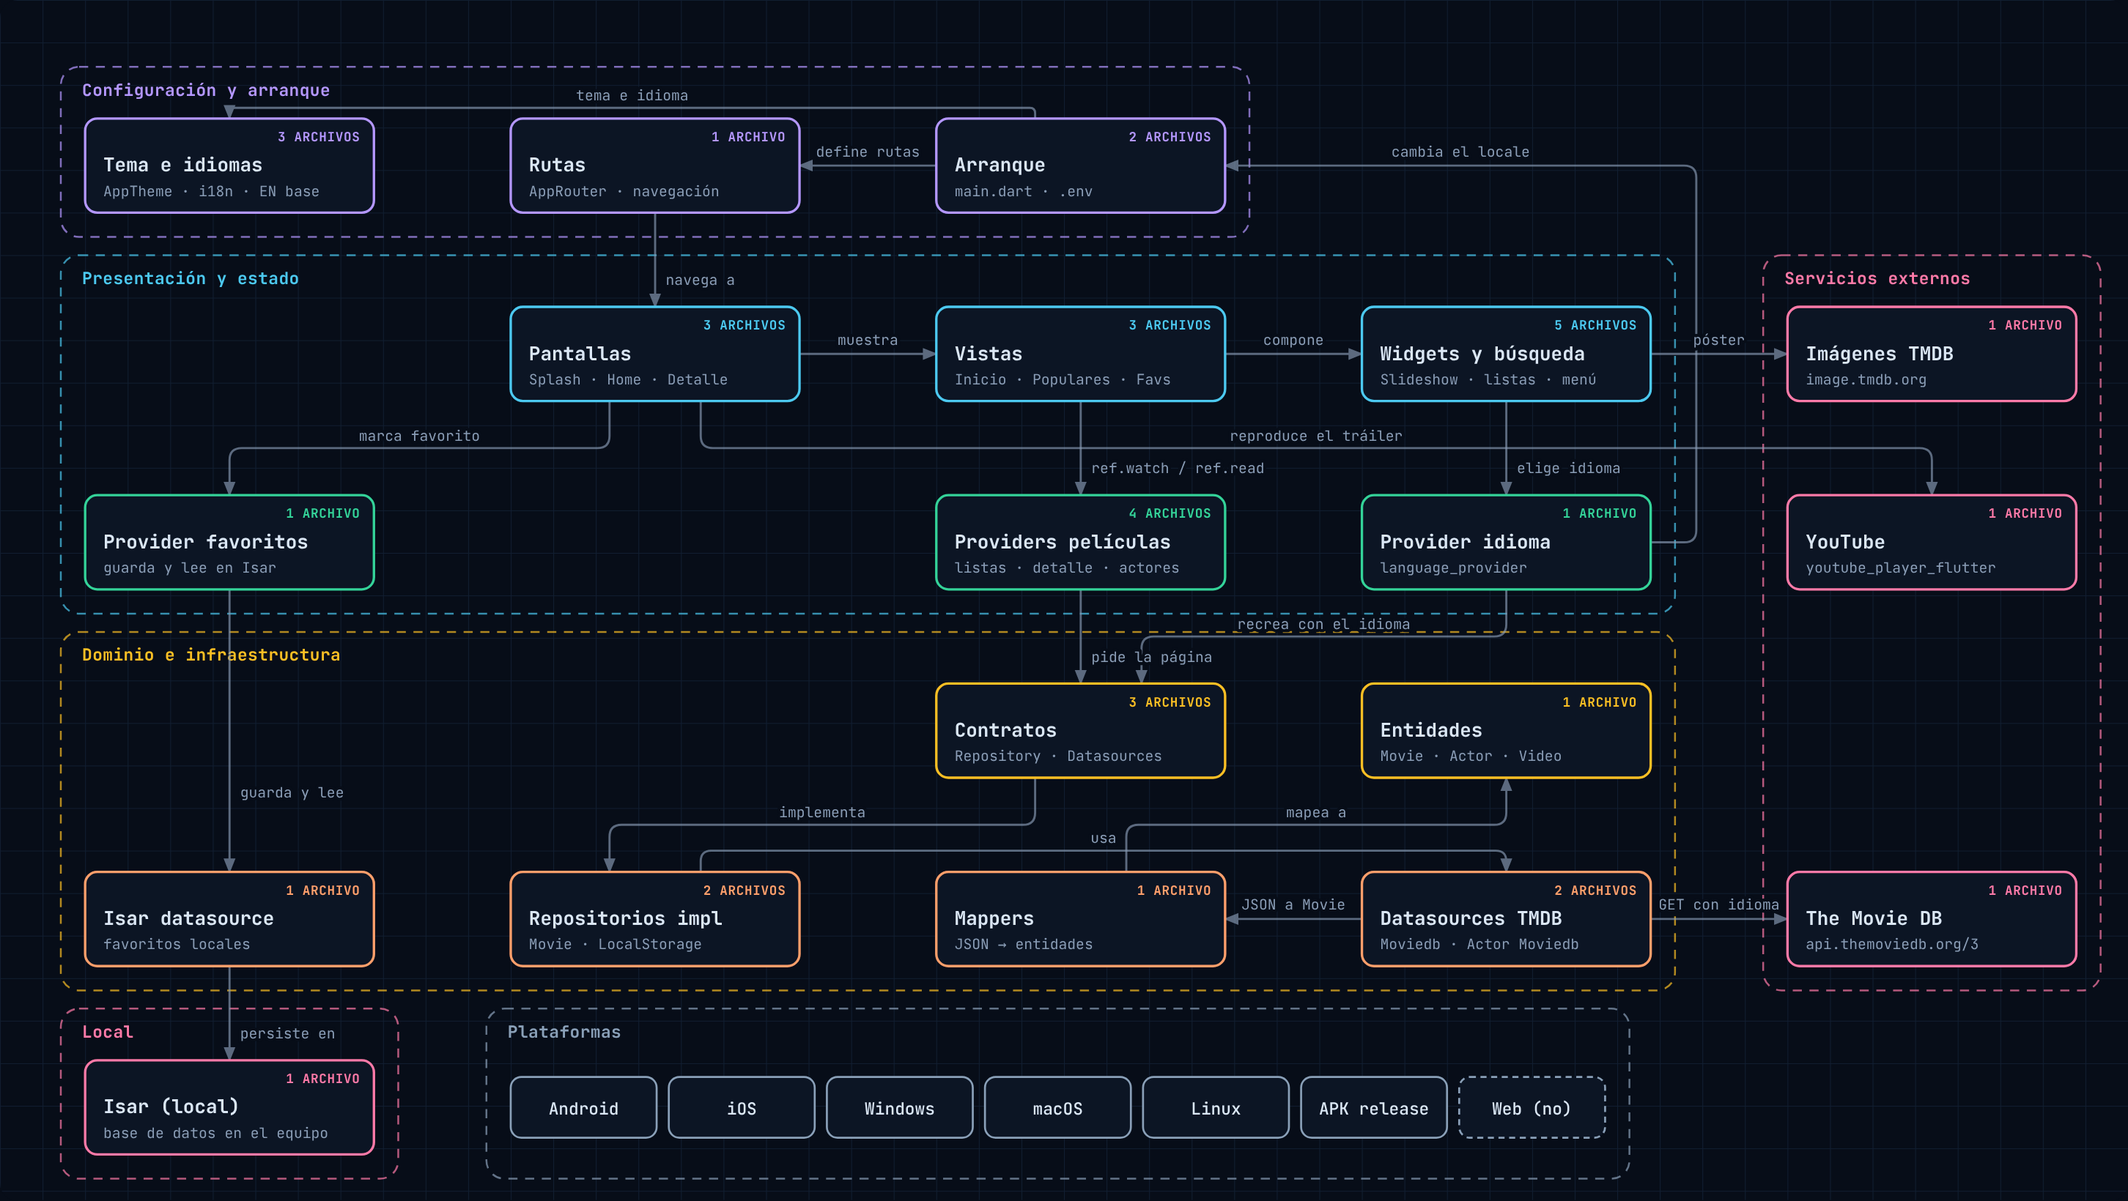
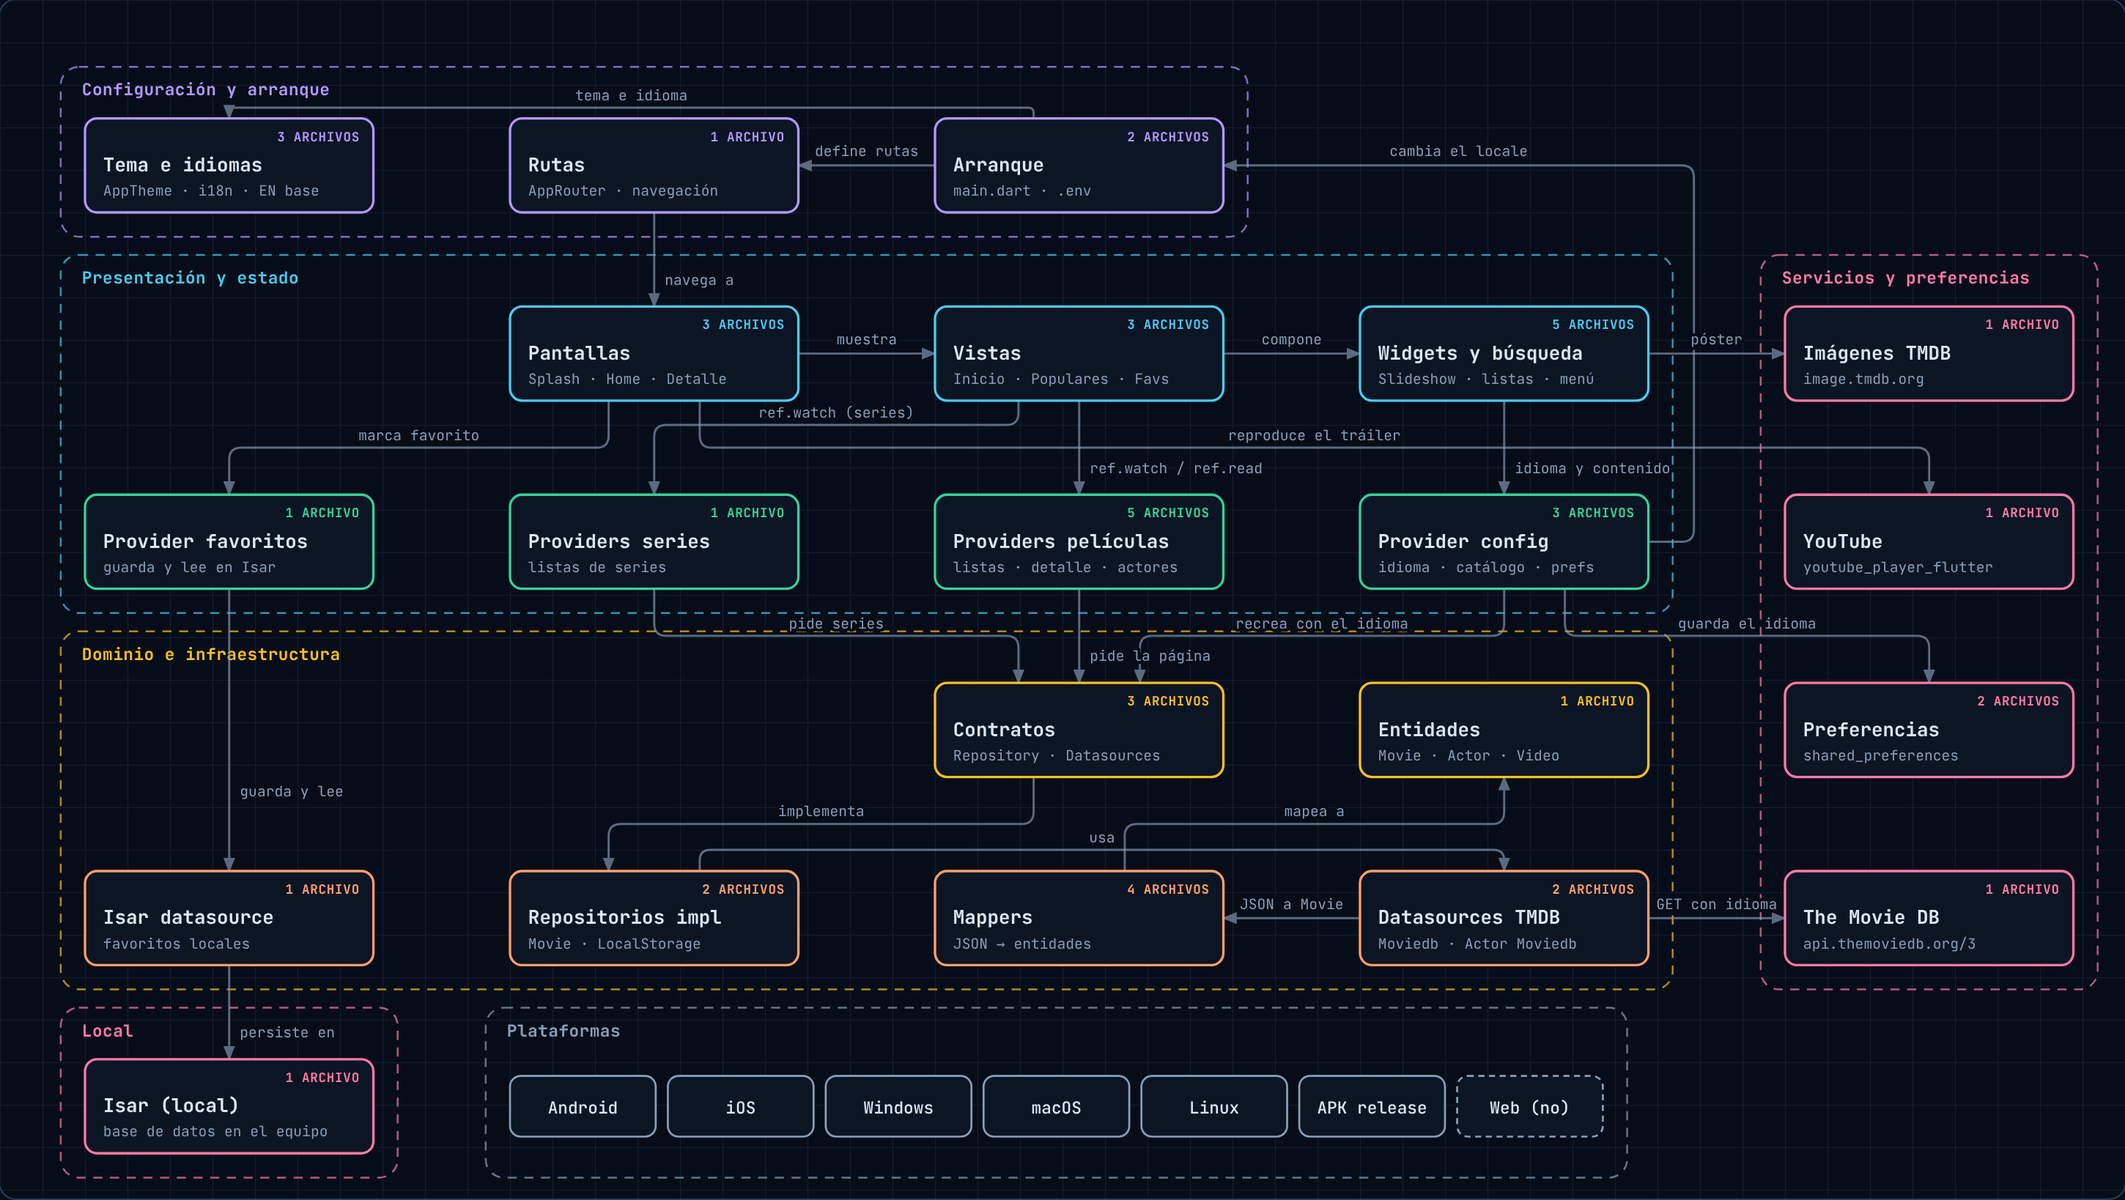
Practica06
Actualizando Diagrama de Arquitectura

diff --git a/Practica06/Arquitectura/Arquitectura_de_Cinemapedia.html b/Practica06/Arquitectura/Arquitectura_de_Cinemapedia.html
@@ -122,7 +122,7 @@ body.present .stage.fit #dg{max-height:calc(100vh - 150px)}
 
 <div class="wrap">
   <div class="head">
-    <h1>Arquitectura de Cinemapedia <small>Flutter · providers · Isar · The Movie DB</small></h1>
+    <h1>Arquitectura de Cinemapedia <small>Flutter · providers · Isar · The Movie DB · películas y series</small></h1>
     <div class="tools">
       <button class="btn" id="theme">Tema</button>
       <button class="btn" id="fit" aria-pressed="true">Ajustar</button>
@@ -146,9 +146,9 @@ body.present .stage.fit #dg{max-height:calc(100vh - 150px)}
   <div class="dock" id="dock" aria-live="polite"></div>
 
   <div class="notes">
-    <div style="--d:#22d3ee"><h3><i></i>Flujo de datos</h3><p>Los providers piden las películas al repositorio, que las trae de The Movie DB y las convierte con mappers a entidades.</p></div>
-    <div style="--d:#34d399"><h3><i></i>Idiomas</h3><p>Al cambiar de idioma se recrean los repositorios y se recargan las películas. Si falta la traducción, se usa el inglés como respaldo.</p></div>
-    <div style="--d:#fbbf24"><h3><i></i>Sin backend propio</h3><p>La app consulta The Movie DB como servicio externo y guarda los favoritos solo en el dispositivo con Isar. La web no está soportada porque Isar no corre en navegador.</p></div>
+    <div style="--d:#22d3ee"><h3><i></i>Flujo de datos</h3><p>Los providers piden las películas y series al repositorio, que las trae de The Movie DB y las convierte con mappers a entidades.</p></div>
+    <div style="--d:#34d399"><h3><i></i>Idiomas</h3><p>El idioma se elige en Configuración y se recuerda al reabrir la app. Al cambiarlo se recrean los repositorios y se recargan los datos; si falta la traducción, se usa el inglés como respaldo.</p></div>
+    <div style="--d:#fbbf24"><h3><i></i>Sin backend propio</h3><p>La app consulta The Movie DB como servicio externo y guarda en el dispositivo los favoritos (Isar) y el idioma elegido (shared_preferences). La web no está soportada porque Isar no corre en navegador.</p></div>
   </div>
 </div>
 
@@ -160,29 +160,31 @@ const LAYERS=[
  {id:'domain',short:'Dominio',c:'--c-domain'},{id:'infra',short:'Infraestructura',c:'--c-infra'},{id:'ext',short:'Externo y local',c:'--c-ext'},{id:'plat',short:'Plataformas',c:'--c-plat'}];
 const LP='lib/presentation/', LI='lib/infrastructure/', LD='lib/domain/';
 const N=[
- {id:'arranque',l:'config',c:2,r:0,t:'Arranque',s:'main.dart · .env',d:'Inicia la app, monta MaterialApp.router con el tema y el idioma activos, y lee la API key del archivo .env.',f:[['main.dart','lib/main.dart','Punto de entrada.'],['environment.dart','lib/config/constants/environment.dart','Constantes de entorno y API key del .env.']]},
+ {id:'arranque',l:'config',c:2,r:0,t:'Arranque',s:'main.dart · .env',d:'Inicia la app, lee la API key del archivo .env y las preferencias guardadas (el último idioma elegido), y monta MaterialApp.router con el tema y el idioma activos.',f:[['main.dart','lib/main.dart','Punto de entrada.'],['environment.dart','lib/config/constants/environment.dart','Constantes de entorno y API key del .env.']]},
  {id:'rutas',l:'config',c:1,r:0,t:'Rutas',s:'AppRouter · navegación',d:'Define las rutas y la navegación entre pantallas.',f:[['app_router.dart','lib/config/router/app_router.dart','Rutas de la app.']]},
  {id:'tema',l:'config',c:0,r:0,t:'Tema e idiomas',s:'AppTheme · i18n · EN base',d:'Tema visual, idiomas disponibles y textos traducidos. Si falta una traducción se usa el inglés.',f:[['app_theme.dart','lib/config/theme/app_theme.dart','Tema visual.'],['app_language.dart','lib/config/i18n/app_language.dart','Idiomas disponibles.'],['app_strings.dart','lib/config/i18n/app_strings.dart','Textos traducidos.']]},
 
- {id:'pantallas',l:'ui',c:1,r:1,t:'Pantallas',s:'Splash · Home · Detalle',d:'Pantallas de la app. El detalle de película reproduce el tráiler y permite marcar favoritos.',f:[['splash_screen.dart',LP+'screens/splash/splash_screen.dart','Pantalla de arranque.'],['home_screen.dart',LP+'screens/movies/home_screen.dart','Pantalla principal. Muestra las vistas y el menú lateral.'],['movie_screen.dart',LP+'screens/movies/movie_screen.dart','Detalle de una película.']]},
- {id:'vistas',l:'ui',c:2,r:1,t:'Vistas',s:'Inicio · Populares · Favs',d:'Vistas que muestra la pantalla principal. Leen los providers con ref.watch y ref.read.',f:[['home_view.dart',LP+'views/movies/home_view.dart','Inicio: slideshow y listas horizontales.'],['popular_view.dart',LP+'views/movies/popular_view.dart','Populares en cuadrícula.'],['favorites_view.dart',LP+'views/movies/favorites_view.dart','Películas favoritas.']]},
- {id:'widgets',l:'ui',c:3,r:1,t:'Widgets y búsqueda',s:'Slideshow · listas · menú',d:'Componentes reutilizables. El menú lateral cambia el idioma y los carruseles cargan los pósters de TMDB.',f:[['movies_slideshow.dart',LP+'widgets/movies/movies_slideshow.dart','Carrusel principal.'],['movie_horizontal_listview.dart',LP+'widgets/movies/movie_horizontal_listview.dart','Lista horizontal de películas.'],['movie_masonry.dart',LP+'widgets/movies/movie_masonry.dart','Cuadrícula masonry.'],['side_menu.dart',LP+'widgets/shared/side_menu.dart','Menú lateral con selector de idioma.'],['search_movie_delegate.dart',LP+'delegates/search_movie_delegate.dart','Delegado de búsqueda.']]},
+ {id:'pantallas',l:'ui',c:1,r:1,t:'Pantallas',s:'Splash · Home · Detalle',d:'Pantallas de la app. El detalle de una película o serie muestra la clasificación de edad del país elegido, reproduce el tráiler y permite marcar favoritos.',f:[['splash_screen.dart',LP+'screens/splash/splash_screen.dart','Pantalla de arranque.'],['home_screen.dart',LP+'screens/movies/home_screen.dart','Pantalla principal. Muestra las vistas y el menú lateral.'],['movie_screen.dart',LP+'screens/movies/movie_screen.dart','Detalle de una película o serie, con su clasificación de edad.']]},
+ {id:'vistas',l:'ui',c:2,r:1,t:'Vistas',s:'Inicio · Populares · Favs',d:'Vistas que muestra la pantalla principal. Según el catálogo elegido (películas o series) leen unos providers u otros con ref.watch y ref.read.',f:[['home_view.dart',LP+'views/movies/home_view.dart','Inicio: slideshow y listas horizontales de películas o series.'],['popular_view.dart',LP+'views/movies/popular_view.dart','Populares en cuadrícula.'],['favorites_view.dart',LP+'views/movies/favorites_view.dart','Películas favoritas.']]},
+ {id:'widgets',l:'ui',c:3,r:1,t:'Widgets y búsqueda',s:'Slideshow · listas · menú',d:'Componentes reutilizables. El menú lateral tiene el apartado de Configuración (contenido e idioma) y los carruseles cargan los pósters de TMDB.',f:[['movies_slideshow.dart',LP+'widgets/movies/movies_slideshow.dart','Carrusel principal.'],['movie_horizontal_listview.dart',LP+'widgets/movies/movie_horizontal_listview.dart','Lista horizontal de películas.'],['movie_masonry.dart',LP+'widgets/movies/movie_masonry.dart','Cuadrícula masonry.'],['side_menu.dart',LP+'widgets/shared/side_menu.dart','Menú lateral con Configuración: películas o series e idioma.'],['search_movie_delegate.dart',LP+'delegates/search_movie_delegate.dart','Delegado de búsqueda.']]},
 
  {id:'pFav',l:'state',c:0,r:2,t:'Provider favoritos',s:'guarda y lee en Isar',d:'Estado de las películas favoritas. Lee y escribe a través de Isar.',f:[['favorite_movies_provider.dart',LP+'providers/storage/favorite_movies_provider.dart','Favoritos del usuario.']]},
- {id:'pMovies',l:'state',c:2,r:2,t:'Providers películas',s:'listas · detalle · actores',d:'Estado de las listas, el detalle, los actores y la búsqueda. Piden cada página al repositorio.',f:[['movies_providers.dart',LP+'providers/movies/movies_providers.dart','Listas de películas por página.'],['movie_info_provider.dart',LP+'providers/movies/movie_info_provider.dart','Detalle de una película.'],['actors_by_movie_provider.dart',LP+'providers/actors/actors_by_movie_provider.dart','Actores de una película.'],['search_movies_provider.dart',LP+'providers/search/search_movies_provider.dart','Estado de la búsqueda.']]},
- {id:'pLang',l:'state',c:3,r:2,t:'Provider idioma',s:'language_provider',d:'Idioma activo. Al cambiar, recrea los repositorios y actualiza el locale de la app.',f:[['language_provider.dart',LP+'providers/language/language_provider.dart','Idioma activo.']]},
+ {id:'pMovies',l:'state',c:2,r:2,t:'Providers películas',s:'listas · detalle · actores',d:'Estado de las listas, el detalle, los actores, la búsqueda y la clasificación de edad. Piden cada página al repositorio.',f:[['movies_providers.dart',LP+'providers/movies/movies_providers.dart','Listas de películas por página.'],['movie_info_provider.dart',LP+'providers/movies/movie_info_provider.dart','Detalle de una película.'],['actors_by_movie_provider.dart',LP+'providers/actors/actors_by_movie_provider.dart','Actores de una película.'],['search_movies_provider.dart',LP+'providers/search/search_movies_provider.dart','Estado de la búsqueda (películas o series).'],['movie_certification_provider.dart',LP+'providers/movies/movie_certification_provider.dart','Clasificación de edad según el país del idioma.']]},
+ {id:'pLang',l:'state',c:3,r:2,t:'Provider config',s:'idioma · catálogo · prefs',d:'Configuración de la app. El idioma activo se guarda en el dispositivo; al cambiarlo se recrean los repositorios y se actualiza el locale. También guarda si se ven películas o series.',f:[['language_provider.dart',LP+'providers/language/language_provider.dart','Idioma activo (se recuerda al reabrir la app).'],['catalog_type_provider.dart',LP+'providers/settings/catalog_type_provider.dart','Catálogo activo: películas o series.'],['shared_preferences_provider.dart',LP+'providers/settings/shared_preferences_provider.dart','Preferencias guardadas en el dispositivo.']]},
+ {id:'pSeries',l:'state',c:1,r:2,t:'Providers series',s:'listas de series',d:'Estado de las listas de series (en emisión, se emiten hoy, populares y mejor calificadas) con scroll infinito. Piden cada página al repositorio.',f:[['series_providers.dart',LP+'providers/series/series_providers.dart','Listas de series y carrusel.']]},
 
- {id:'contratos',l:'domain',c:2,r:3,t:'Contratos',s:'Repository · Datasources',d:'Interfaces abstractas que usan los providers. Aíslan la app de la API concreta.',f:[['movies_repository.dart',LD+'repositories/movies_repository.dart','Contrato del repositorio.'],['movies_datasource.dart',LD+'datasources/movies_datasource.dart','Contrato de la fuente de datos.'],['local_storage_datasource.dart',LD+'datasources/local_storage_datasource.dart','Contrato del almacenamiento local.']]},
- {id:'entidades',l:'domain',c:3,r:3,t:'Entidades',s:'Movie · Actor · Video',d:'Clases del dominio. No dependen de la API.',f:[['entities/',LD+'entities/','Movie, Actor y Video.']]},
+ {id:'contratos',l:'domain',c:2,r:3,t:'Contratos',s:'Repository · Datasources',d:'Interfaces abstractas que usan los providers (películas, series y clasificación de edad). Aíslan la app de la API concreta.',f:[['movies_repository.dart',LD+'repositories/movies_repository.dart','Contrato del repositorio.'],['movies_datasource.dart',LD+'datasources/movies_datasource.dart','Contrato de la fuente de datos.'],['local_storage_datasource.dart',LD+'datasources/local_storage_datasource.dart','Contrato del almacenamiento local.']]},
+ {id:'entidades',l:'domain',c:3,r:3,t:'Entidades',s:'Movie · Actor · Video',d:'Clases del dominio. No dependen de la API. Las series se guardan como Movie con el id en negativo para no chocar con una película.',f:[['entities/',LD+'entities/','Movie, Actor y Video.']]},
 
  {id:'isarDs',l:'infra',c:0,r:4,t:'Isar datasource',s:'favoritos locales',d:'Lee y escribe los favoritos en la base de datos Isar.',f:[['isar_datasource.dart',LI+'datasources/isar_datasource.dart','Acceso a Isar.']]},
  {id:'repoImpl',l:'infra',c:1,r:4,t:'Repositorios impl',s:'Movie · LocalStorage',d:'Implementan los contratos del dominio y delegan en los datasources.',f:[['movie_repository_impl.dart',LI+'repositories/movie_repository_impl.dart','Implementa MoviesRepository.'],['local_storage_repository_impl.dart',LI+'repositories/local_storage_repository_impl.dart','Implementa el repositorio local.']]},
- {id:'mappers',l:'infra',c:2,r:4,t:'Mappers',s:'JSON → entidades',d:'Convierten el JSON de TMDB en entidades del dominio.',f:[['mappers/',LI+'mappers/','Conversión de JSON a Movie, Actor y Video.']]},
- {id:'datasources',l:'infra',c:3,r:4,t:'Datasources TMDB',s:'Moviedb · Actor Moviedb',d:'Hacen GET a The Movie DB con el idioma elegido, usando la API key de environment.dart.',f:[['moviedb_datasource.dart',LI+'datasources/moviedb_datasource.dart','Películas.'],['actor_moviedb_datasource.dart',LI+'datasources/actor_moviedb_datasource.dart','Actores.']]},
+ {id:'mappers',l:'infra',c:2,r:4,t:'Mappers',s:'JSON → entidades',d:'Convierten el JSON de TMDB (películas y series) en entidades del dominio.',f:[['movie_mapper.dart',LI+'mappers/movie_mapper.dart','JSON de película a Movie.'],['tv_mapper.dart',LI+'mappers/tv_mapper.dart','JSON de serie a Movie (id negativo).'],['actor_mapper.dart',LI+'mappers/actor_mapper.dart','JSON a Actor.'],['video_mapper.dart',LI+'mappers/video_mapper.dart','JSON a Video.']]},
+ {id:'datasources',l:'infra',c:3,r:4,t:'Datasources TMDB',s:'Moviedb · Actor Moviedb',d:'Hacen GET a The Movie DB con el idioma elegido, usando la API key de environment.dart. Piden películas (/movie), series (/tv) y las clasificaciones por país.',f:[['moviedb_datasource.dart',LI+'datasources/moviedb_datasource.dart','Películas, series y clasificación de edad.'],['actor_moviedb_datasource.dart',LI+'datasources/actor_moviedb_datasource.dart','Actores.']]},
 
  {id:'imgs',l:'ext',c:4,r:1,t:'Imágenes TMDB',s:'image.tmdb.org',d:'Servidor de pósters y fondos.',f:[['image.tmdb.org','https://image.tmdb.org','Pósters.']]},
  {id:'yt',l:'ext',c:4,r:2,t:'YouTube',s:'youtube_player_flutter',d:'Reproduce los tráilers en la pantalla de detalle.',f:[['youtube_player_flutter','paquete de Flutter','Reproductor.']]},
  {id:'tmdb',l:'ext',c:4,r:4,t:'The Movie DB',s:'api.themoviedb.org/3',d:'API REST de películas. Recibe el idioma en cada GET.',f:[['api.themoviedb.org/3','https://api.themoviedb.org/3','API REST.']]},
+ {id:'prefs',l:'ext',c:4,r:3,t:'Preferencias',s:'shared_preferences',d:'Guarda en el dispositivo el idioma elegido para recordarlo la próxima vez que se abra la app.',f:[['shared_preferences','paquete de Flutter','Guarda el idioma.'],['main.dart','lib/main.dart','Lo inicializa y lo entrega a los providers.']]},
  {id:'isarDb',l:'ext',c:0,r:5,t:'Isar (local)',s:'base de datos en el equipo',d:'Base de datos local del dispositivo donde persisten los favoritos.',f:[['Isar','en el dispositivo','Persistencia.']]}
 ];
 const PLAT=[['android','Android','android/'],['ios','iOS','ios/'],['windows','Windows','windows/'],['macos','macOS','macos/'],['linux','Linux','linux/'],['apk','APK release','build/app/outputs/flutter-apk/app-release.apk'],['web','Web (no)','Isar no corre en navegador']];
@@ -194,7 +196,10 @@ const E=[
  ['pant-vistas','pantallas','vistas','muestra','h'],
  ['vistas-widgets','vistas','widgets','compone','h'],
  ['vistas-pMovies','vistas','pMovies','ref.watch / ref.read','v'],
- ['widgets-pLang','widgets','pLang','elige idioma','v'],
+ ['widgets-pLang','widgets','pLang','idioma y contenido','v'],
+ ['vistas-pSeries','vistas','pSeries','ref.watch (series)','v',{da:-40,ch:280}],
+ ['pSeries-contr','pSeries','contratos','pide series','v',{db:-40}],
+ ['pLang-prefs','pLang','prefs','guarda el idioma','v',{da:40}],
  ['widgets-imgs','widgets','imgs','póster','h'],
  ['pant-yt','pantallas','yt','reproduce el tráiler','v',{da:30}],
  ['pant-pFav','pantallas','pFav','marca favorito','v',{da:-30}],
@@ -211,7 +216,8 @@ const E=[
 ].map(a=>({id:a[0],a:a[1],b:a[2],t:a[3],k:a[4],o:a[5]||{},em:!!(a[5]&&a[5].em)}));
 const VIEWS=[
  {id:'peliculas',label:'Flujo de películas',note:'La app define rutas, abre la pantalla principal y los providers piden las películas al repositorio, que las trae de The Movie DB y las convierte en entidades.',steps:['arr-rutas','rutas-pant','pant-vistas','vistas-pMovies','pMovies-contr','contr-repo','repo-ds','ds-tmdb','ds-map','map-ent']},
- {id:'idioma',label:'Cambio de idioma',note:'El menú lateral cambia el idioma, se actualiza el locale de la app y se recargan las películas con el nuevo idioma.',steps:['vistas-widgets','widgets-pLang','pLang-arr','pLang-contr','contr-repo','repo-ds','ds-tmdb']},
+ {id:'idioma',label:'Cambio de idioma',note:'En Configuración (menú lateral) se elige el idioma: se guarda en el dispositivo para recordarlo, se actualiza el locale de la app y se recargan los datos con el nuevo idioma.',steps:['vistas-widgets','widgets-pLang','pLang-prefs','pLang-arr','pLang-contr','contr-repo','repo-ds','ds-tmdb']},
+ {id:'series',label:'Series y catálogo',note:'En Configuración se elige Series. La vista pide las listas al provider de series, que llama al repositorio y consulta los endpoints /tv de The Movie DB. Cada serie se convierte en Movie con id negativo.',steps:['widgets-pLang','vistas-pSeries','pSeries-contr','contr-repo','repo-ds','ds-tmdb','ds-map']},
  {id:'favoritos',label:'Favoritos',note:'Desde el detalle de una película el provider guarda y lee los favoritos en Isar, la base de datos local.',steps:['pant-pFav','pFav-isar','isar-db']},
  {id:'media',label:'Pósters y tráiler',note:'Los widgets cargan los pósters desde image.tmdb.org y el detalle reproduce el tráiler con YouTube.',steps:['vistas-widgets','widgets-imgs','pant-yt']}
 ];
@@ -219,7 +225,7 @@ const BND=[
  {t:'Configuración y arranque',c:'--c-config',x:0,y:0,w:3,h:1,rows:[0,0]},
  {t:'Presentación y estado',c:'--c-ui',cols:[0,3],rows:[1,2]},
  {t:'Dominio e infraestructura',c:'--c-domain',cols:[0,3],rows:[3,4]},
- {t:'Servicios externos',c:'--c-ext',cols:[4,4],rows:[1,4]},
+ {t:'Servicios y preferencias',c:'--c-ext',cols:[4,4],rows:[1,4]},
  {t:'Local',c:'--c-ext',cols:[0,0],rows:[5,5]}
 ];
 BND[0].cols=[0,2];
@@ -241,7 +247,7 @@ E.forEach(e=>{
     pts=[[right?rgt(A):lft(A),y],[right?lft(B):rgt(B),y]]; lx=(pts[0][0]+pts[1][0])/2; ly=y-6;
   } else if(e.k==='v'){
     const down=B.y>A.y; const xa=cx(A)+da, xb=cx(B)+db;
-    const y1=down?bot(A):top(A), y2=down?top(B):bot(B); const ch=(y1+y2)/2;
+    const y1=down?bot(A):top(A), y2=down?top(B):bot(B); const ch=(o.ch!==undefined)?o.ch:(y1+y2)/2;
     if(Math.abs(xa-xb)<1){pts=[[xa,y1],[xb,y2]]; lx=xa+7; ly=y1+(y2-y1)*(down?.72:.28)+3; anchor='start'}
     else {pts=[[xa,y1],[xa,ch],[xb,ch],[xb,y2]]; lx=(xa+xb)/2; ly=ch-5}
   } else if(e.k==='arc'){
